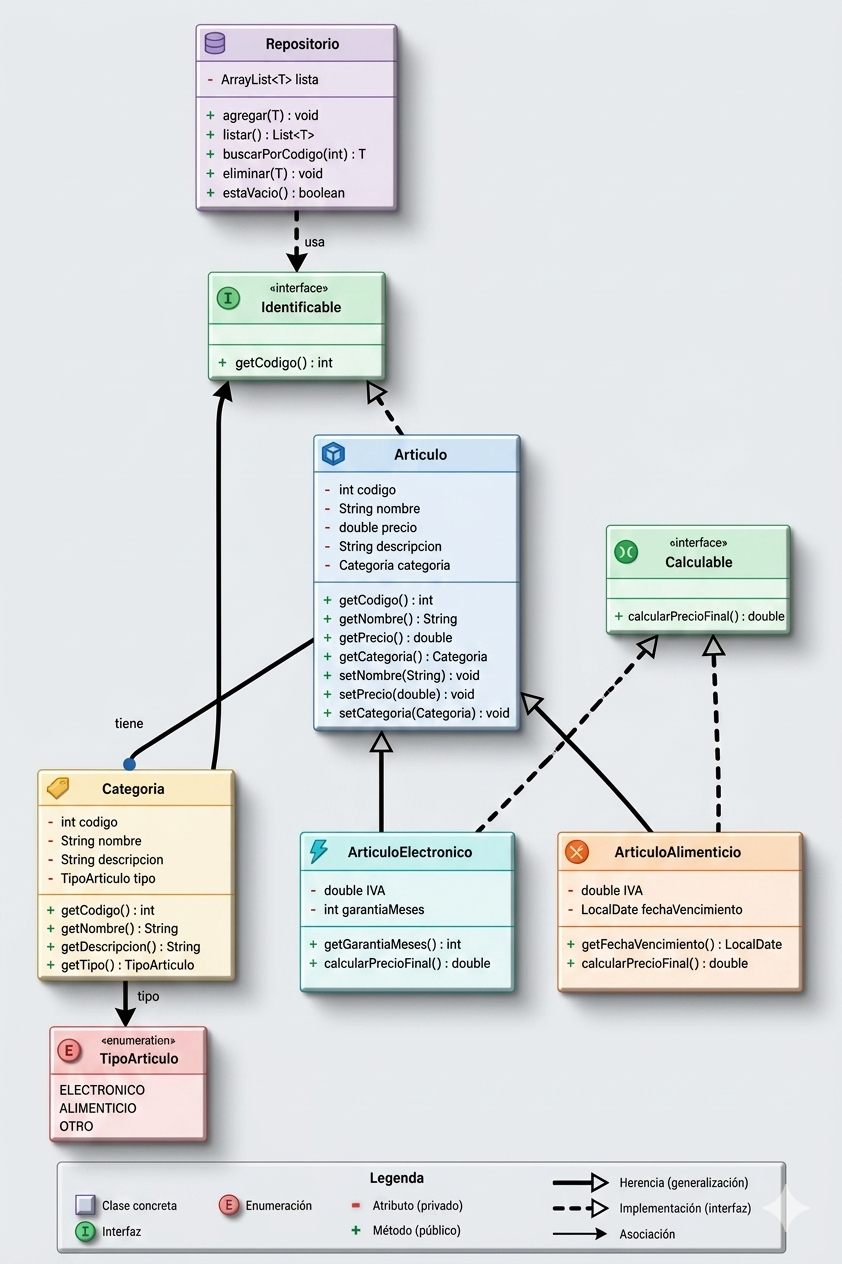
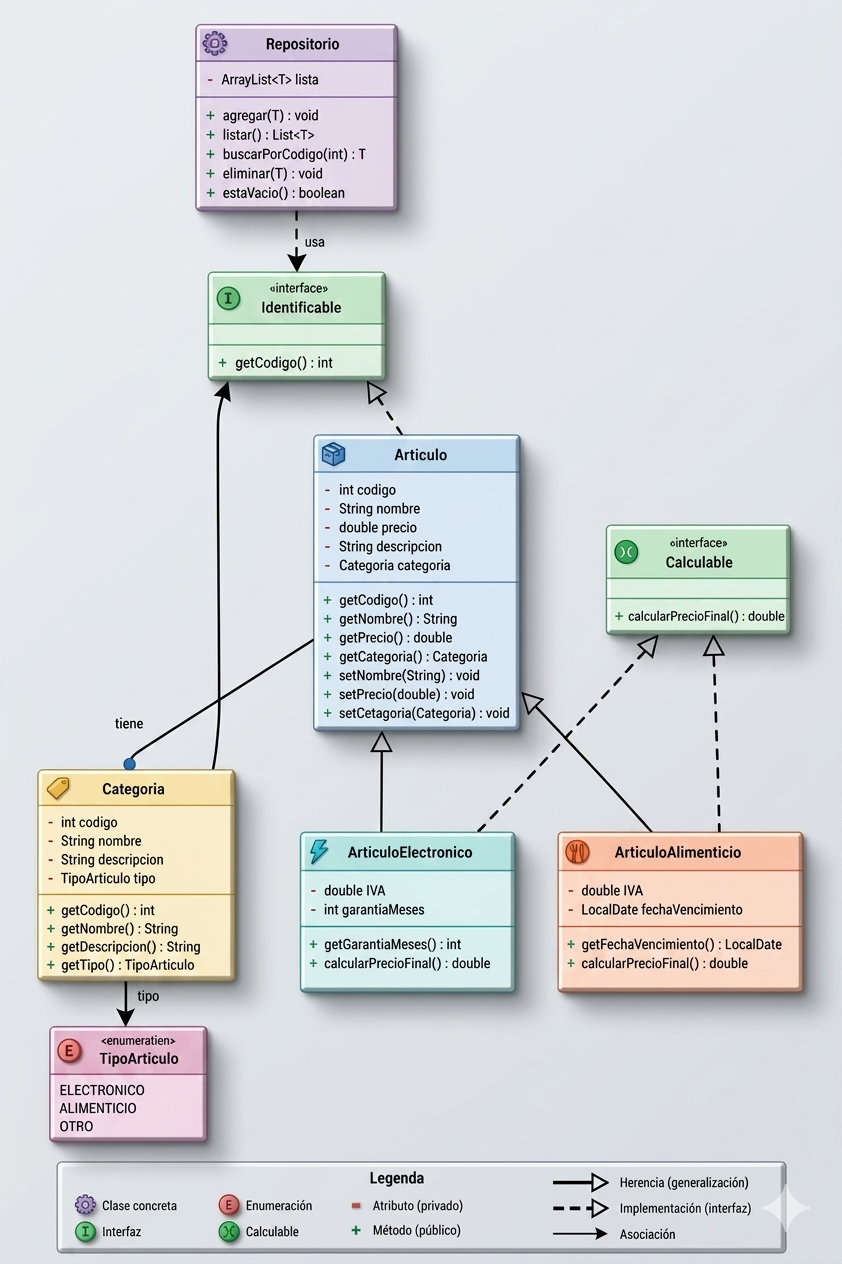
readme  ArticuloGeneral

diff --git a/README.md b/README.md
@@ -55,7 +55,8 @@ src/
     │   ├── Categoria.java                 # Modelo: código, nombre, descripción, tipo
     │   ├── Articulo.java                  # Modelo base: código, nombre, precio, descripción, categoría
     │   ├── ArticuloAlimenticio.java       # Subtipo: implements Calculable — IVA 21%, fecha de vencimiento
-    │   └── ArticuloElectronico.java       # Subtipo: implements Calculable — IVA 10.5%, garantía en meses
+    │   ├── ArticuloElectronico.java       # Subtipo: implements Calculable — IVA 10.5%, garantía en meses
+    │   └── ArticuloGeneral.java           # Subtipo: implements Calculable — IVA 21%, sin campos adicionales
     ├── repository/
     │   └── Repositorio.java               # Repositorio genérico <T extends Identificable>
     ├── menu/
@@ -94,6 +95,7 @@ Base de todos los menús. Encapsula el `Scanner` compartido y expone métodos de
 |---|---|---|---|
 | `ArticuloElectronico` | 10.5% | `garantiaMeses` (int) — meses de garantía | `precio * 1.105` |
 | `ArticuloAlimenticio` | 21% | `fechaVencimiento` (LocalDate) — fecha de vencimiento | `precio * 1.21` |
+| `ArticuloGeneral` | 21% | — ninguno | `precio * 1.21` |
 
 Al listar, el polimorfismo invoca automáticamente el `toString()` del subtipo correcto, mostrando el precio final con IVA incluido, junto con el campo específico del subtipo.
 
@@ -104,7 +106,7 @@ Modelo con campos: `codigo`, `nombre`, `descripcion` y `tipo` (`TipoArticulo`). 
 Enum con tres valores: `ELECTRONICO`, `ALIMENTICIO`, `OTRO`. Pertenece a `Categoria` y permite que el alta de artículos sugiera automáticamente el subtipo correcto según la categoría elegida.
 
 ### `Calculable`
-Interfaz con un único método `double calcularPrecioFinal()`. Implementada por `ArticuloElectronico` y `ArticuloAlimenticio` con lógicas distintas.
+Interfaz con un único método `double calcularPrecioFinal()`. Implementada por `ArticuloElectronico`, `ArticuloAlimenticio` y `ArticuloGeneral` con lógicas propias.
 
 ### `Identificable`
 Interfaz con `int getCodigo()`. Implementada por `Articulo` y `Categoria`. Es el contrato que exige el repositorio genérico.